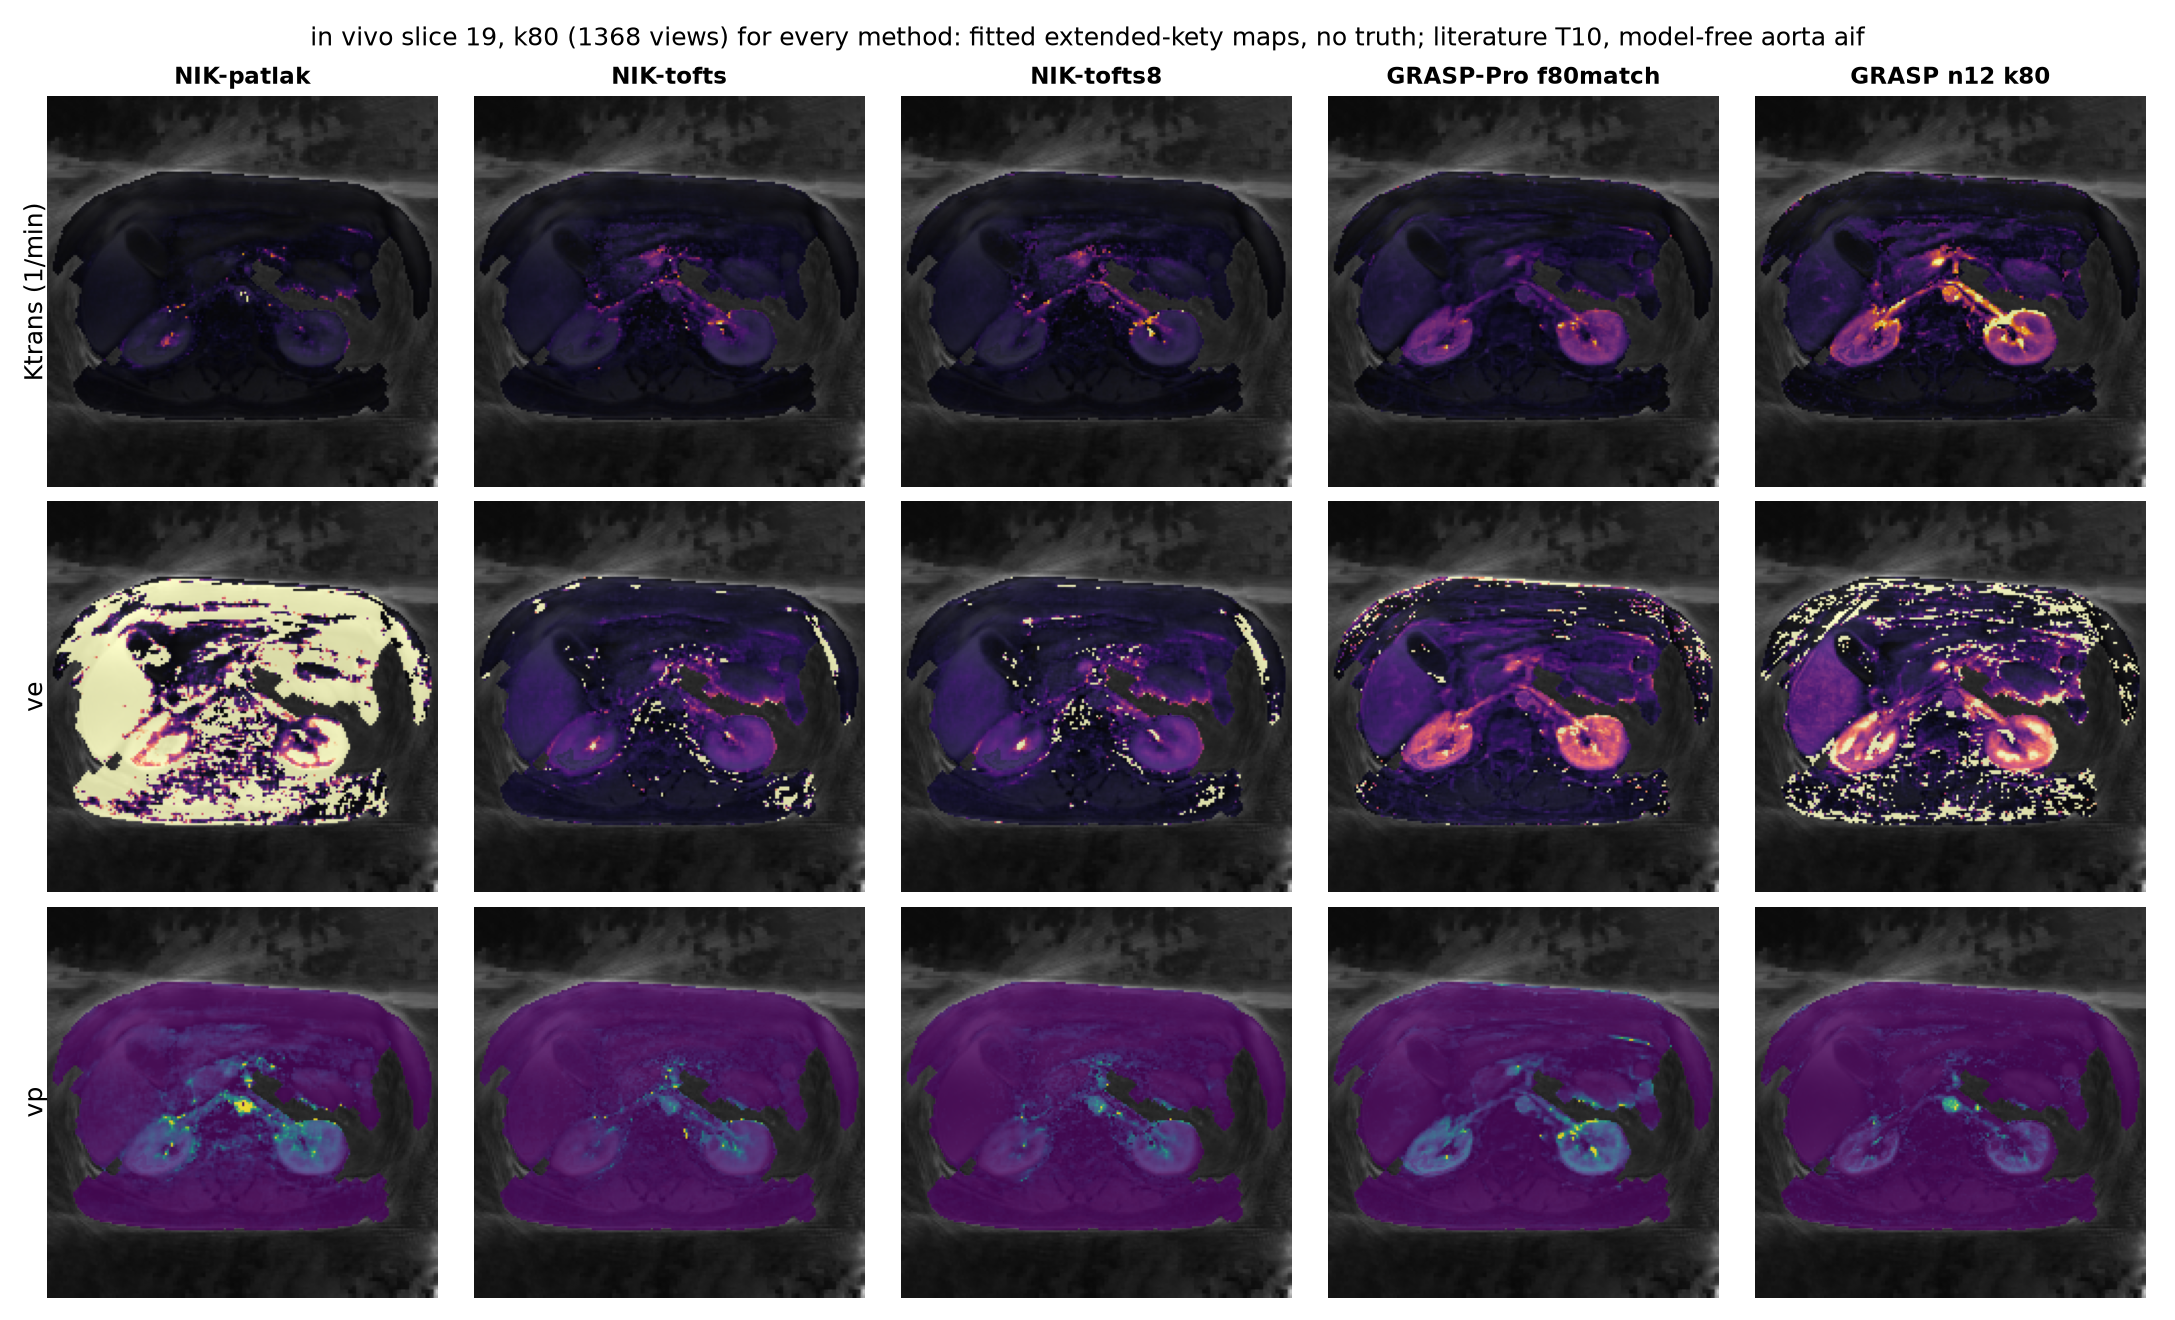
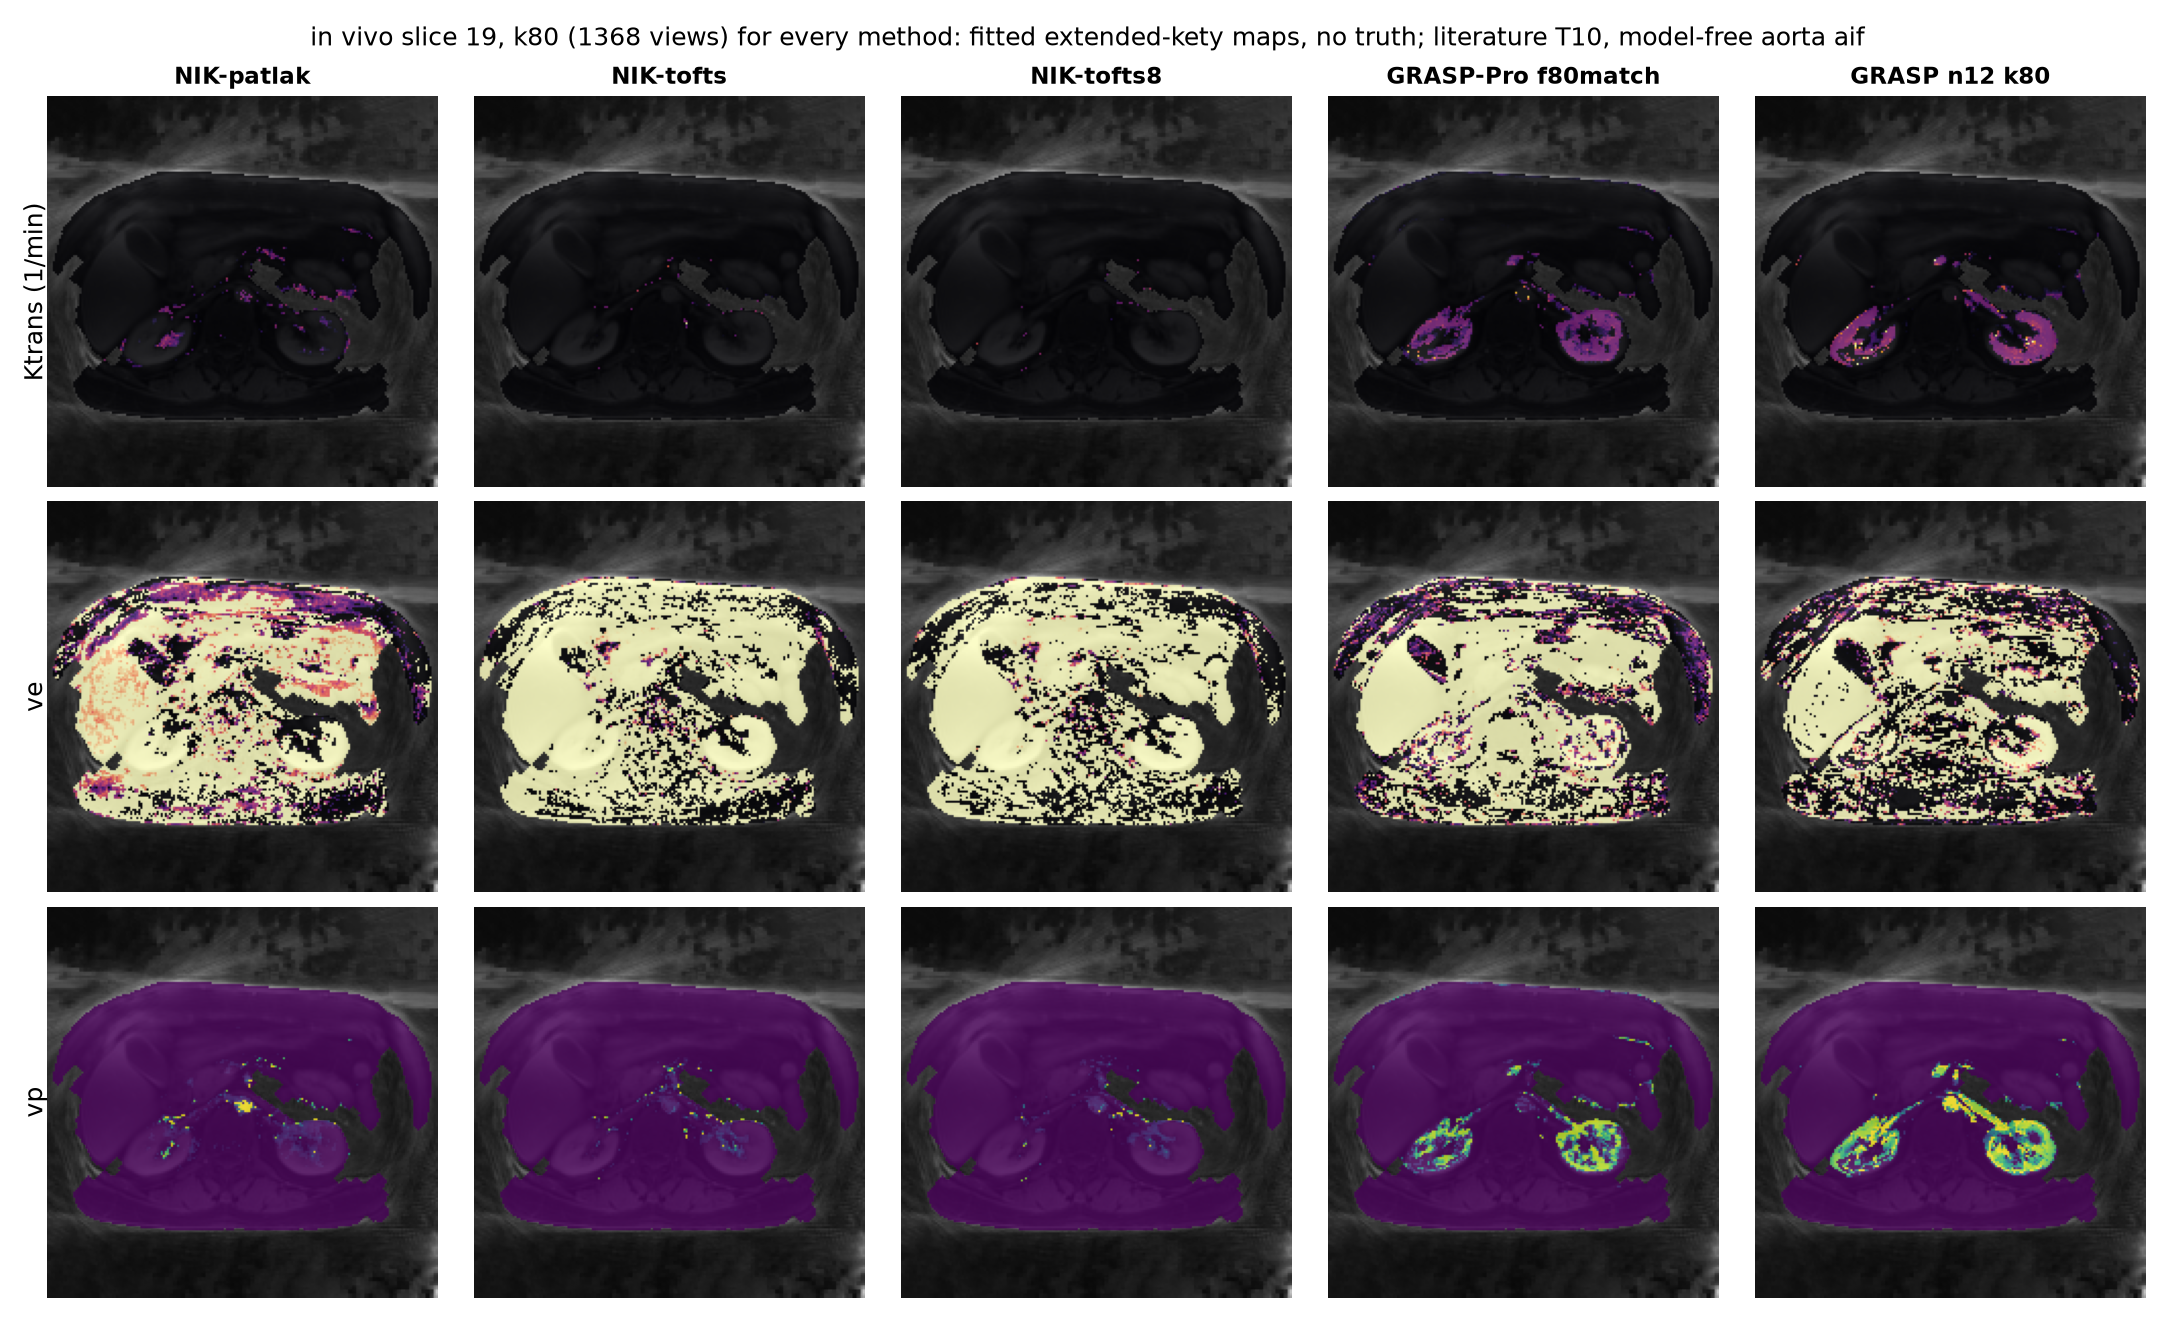
agent 2026-09-13 01:00 worker01.cluster: 6 files

diff --git a/results/realdata_nik_vs_cs_figures/pk_maps/pk_invivo_k80.md b/results/realdata_nik_vs_cs_figures/pk_maps/pk_invivo_k80.md
@@ -1,32 +1,32 @@
 # in vivo extended-kety maps at k80 (no truth; literature T10 per roi, model-free aorta aif, one aif for every method)
 
-TR 4.66 ms, flip 18, hct 0.4, r1 3.5 /mM/s, T10 {'cortex': 1142.0, 'medulla': 1545.0, 'blood': 1650.0, 'other': 1000.0} ms; DCE-NET curve_fit; ke = kep (1/min), ktrans = ke * ve (1/min); per-roi median [iqr]
+TR 2.06 ms, flip 5, hct 0.4, r1 3.5 /mM/s, T10 {'cortex': 1142.0, 'medulla': 1545.0, 'blood': 1650.0, 'other': 1000.0} ms; DCE-NET curve_fit; ke = kep (1/min), ktrans = ke * ve (1/min); per-roi median [iqr]
 
 ## slice 21
 | method | cortex ktrans | cortex ve | cortex vp | medulla ktrans | medulla ve | medulla vp |
 |---|---|---|---|---|---|---|
-| NIK-free | 0.197 [0.17, 0.22] | 0.304 [0.26, 0.35] | 0.041 [0.03, 0.05] | 0.137 [0.13, 0.15] | 0.322 [0.27, 0.38] | 0.034 [0.02, 0.04] |
-| NIK-sub16 | 0.227 [0.20, 0.24] | 0.353 [0.33, 0.39] | 0.051 [0.04, 0.06] | 0.164 [0.16, 0.17] | 0.333 [0.29, 0.38] | 0.030 [0.02, 0.04] |
-| NIK-patlak | 0.046 [0.04, 0.05] | 0.689 [0.58, 0.92] | 0.053 [0.05, 0.06] | 0.042 [0.04, 0.05] | 1.000 [0.99, 1.00] | 0.035 [0.03, 0.04] |
-| NIK-tofts | 0.089 [0.08, 0.10] | 0.166 [0.16, 0.18] | 0.012 [0.01, 0.01] | 0.058 [0.06, 0.06] | 0.152 [0.13, 0.17] | 0.010 [0.01, 0.01] |
-| NIK-tofts8 | 0.104 [0.10, 0.11] | 0.179 [0.17, 0.19] | 0.021 [0.02, 0.02] | 0.063 [0.06, 0.07] | 0.173 [0.15, 0.19] | 0.014 [0.01, 0.02] |
-| GRASP-Pro f80match | 0.138 [0.13, 0.15] | 0.357 [0.34, 0.38] | 0.027 [0.03, 0.03] | 0.131 [0.11, 0.14] | 0.352 [0.30, 0.38] | 0.026 [0.02, 0.03] |
-| GRASP n12 k80 | 0.319 [0.28, 0.34] | 0.486 [0.44, 0.51] | 0.067 [0.05, 0.08] | 0.196 [0.18, 0.21] | 0.441 [0.38, 0.50] | 0.042 [0.02, 0.05] |
+| NIK-free | 0.000 [0.00, 0.00] | 1.000 [0.02, 1.00] | 0.000 [0.00, 0.00] | 0.000 [0.00, 0.00] | 0.009 [0.01, 0.03] | 0.000 [0.00, 0.00] |
+| NIK-sub16 | 0.000 [0.00, 0.00] | 0.006 [0.01, 0.01] | 0.001 [0.00, 0.00] | 0.000 [0.00, 0.00] | 0.007 [0.01, 0.01] | 0.000 [0.00, 0.00] |
+| NIK-patlak | 0.000 [0.00, 0.00] | 1.000 [1.00, 1.00] | 0.000 [0.00, 0.00] | 0.000 [0.00, 0.00] | 1.000 [1.00, 1.00] | 0.000 [0.00, 0.00] |
+| NIK-tofts | 0.000 [0.00, 0.00] | 0.007 [0.00, 0.30] | 0.000 [0.00, 0.00] | 0.000 [0.00, 0.00] | 0.000 [0.00, 1.00] | 0.000 [0.00, 0.00] |
+| NIK-tofts8 | 0.000 [0.00, 0.00] | 0.009 [0.00, 1.00] | 0.000 [0.00, 0.00] | 0.000 [0.00, 0.00] | 1.000 [0.00, 1.00] | 0.000 [0.00, 0.00] |
+| GRASP-Pro f80match | 0.000 [0.00, 0.00] | 1.000 [1.00, 1.00] | 0.000 [0.00, 0.00] | 0.000 [0.00, 0.00] | 1.000 [1.00, 1.00] | 0.000 [0.00, 0.00] |
+| GRASP n12 k80 | 0.000 [0.00, 0.00] | 0.005 [0.00, 0.83] | 0.054 [0.00, 0.18] | 0.001 [0.00, 0.00] | 0.006 [0.00, 0.01] | 0.000 [0.00, 0.00] |
 
 ## slice 18
 | method | cortex ktrans | cortex ve | cortex vp | medulla ktrans | medulla ve | medulla vp |
 |---|---|---|---|---|---|---|
-| NIK-patlak | 0.047 [0.04, 0.05] | 0.975 [0.73, 1.00] | 0.045 [0.04, 0.05] | 0.036 [0.03, 0.04] | 1.000 [0.94, 1.00] | 0.028 [0.02, 0.03] |
-| NIK-tofts | 0.074 [0.07, 0.08] | 0.159 [0.15, 0.16] | 0.008 [0.01, 0.01] | 0.050 [0.05, 0.05] | 0.118 [0.11, 0.12] | 0.005 [0.00, 0.01] |
-| NIK-tofts8 | 0.077 [0.07, 0.09] | 0.167 [0.16, 0.17] | 0.013 [0.01, 0.02] | 0.052 [0.05, 0.06] | 0.124 [0.12, 0.13] | 0.006 [0.00, 0.01] |
-| GRASP-Pro f80match | 0.204 [0.19, 0.22] | 0.442 [0.42, 0.48] | 0.109 [0.09, 0.12] | 0.159 [0.15, 0.17] | 0.360 [0.34, 0.38] | 0.040 [0.03, 0.06] |
-| GRASP n12 k80 | 0.295 [0.27, 0.31] | 0.505 [0.47, 0.55] | 0.059 [0.03, 0.07] | 0.185 [0.17, 0.20] | 0.430 [0.39, 0.45] | 0.029 [0.02, 0.04] |
+| NIK-patlak | 0.000 [0.00, 0.00] | 1.000 [1.00, 1.00] | 0.000 [0.00, 0.00] | 0.000 [0.00, 0.00] | 1.000 [1.00, 1.00] | 0.000 [0.00, 0.00] |
+| NIK-tofts | 0.000 [0.00, 0.00] | 1.000 [1.00, 1.00] | 0.000 [0.00, 0.00] | 0.000 [0.00, 0.00] | 1.000 [1.00, 1.00] | 0.000 [0.00, 0.00] |
+| NIK-tofts8 | 0.000 [0.00, 0.00] | 1.000 [1.00, 1.00] | 0.000 [0.00, 0.00] | 0.000 [0.00, 0.00] | 1.000 [1.00, 1.00] | 0.000 [0.00, 0.00] |
+| GRASP-Pro f80match | 0.006 [0.00, 0.02] | 0.858 [0.00, 1.00] | 0.072 [0.05, 0.09] | 0.000 [0.00, 0.00] | 1.000 [1.00, 1.00] | 0.000 [0.00, 0.00] |
+| GRASP n12 k80 | 0.002 [0.00, 0.53] | 0.183 [0.00, 0.63] | 0.037 [0.00, 0.16] | 0.001 [0.00, 0.00] | 0.004 [0.00, 0.01] | 0.000 [0.00, 0.00] |
 
 ## slice 19
 | method | cortex ktrans | cortex ve | cortex vp | medulla ktrans | medulla ve | medulla vp |
 |---|---|---|---|---|---|---|
-| NIK-patlak | 0.043 [0.04, 0.05] | 0.752 [0.56, 0.92] | 0.040 [0.04, 0.04] | 0.036 [0.03, 0.04] | 0.898 [0.66, 1.00] | 0.029 [0.02, 0.03] |
-| NIK-tofts | 0.062 [0.06, 0.07] | 0.137 [0.13, 0.15] | 0.011 [0.01, 0.01] | 0.046 [0.04, 0.05] | 0.112 [0.11, 0.12] | 0.008 [0.00, 0.01] |
-| NIK-tofts8 | 0.065 [0.06, 0.07] | 0.139 [0.13, 0.15] | 0.014 [0.01, 0.02] | 0.046 [0.04, 0.05] | 0.117 [0.11, 0.12] | 0.011 [0.01, 0.01] |
-| GRASP-Pro f80match | 0.236 [0.21, 0.25] | 0.494 [0.43, 0.52] | 0.076 [0.07, 0.08] | 0.157 [0.14, 0.17] | 0.331 [0.28, 0.37] | 0.044 [0.04, 0.05] |
-| GRASP n12 k80 | 0.302 [0.28, 0.34] | 0.489 [0.45, 0.52] | 0.033 [0.02, 0.04] | 0.186 [0.17, 0.21] | 0.419 [0.38, 0.49] | 0.014 [0.01, 0.02] |
+| NIK-patlak | 0.000 [0.00, 0.00] | 1.000 [1.00, 1.00] | 0.000 [0.00, 0.00] | 0.000 [0.00, 0.00] | 1.000 [1.00, 1.00] | 0.000 [0.00, 0.00] |
+| NIK-tofts | 0.000 [0.00, 0.00] | 1.000 [1.00, 1.00] | 0.000 [0.00, 0.00] | 0.000 [0.00, 0.00] | 1.000 [1.00, 1.00] | 0.000 [0.00, 0.00] |
+| NIK-tofts8 | 0.000 [0.00, 0.00] | 1.000 [1.00, 1.00] | 0.000 [0.00, 0.00] | 0.000 [0.00, 0.00] | 1.000 [1.00, 1.00] | 0.000 [0.00, 0.00] |
+| GRASP-Pro f80match | 0.235 [0.00, 0.33] | 0.389 [0.15, 0.91] | 0.029 [0.01, 0.07] | 0.000 [0.00, 0.00] | 1.000 [1.00, 1.00] | 0.000 [0.00, 0.00] |
+| GRASP n12 k80 | 0.000 [0.00, 0.26] | 0.145 [0.00, 0.75] | 0.085 [0.01, 0.21] | 0.001 [0.00, 0.00] | 0.005 [0.00, 0.02] | 0.000 [0.00, 0.00] |

diff --git a/jobs/agent/status.md b/jobs/agent/status.md
@@ -1,20 +1,19 @@
 # helios agent
 
-updated 2026-09-13 00:27:30 on worker01.cluster, job 3284095, cycle 1
+updated 2026-09-13 01:00:04 on worker01.cluster, job 3284095, cycle 17
 
 ## active
 
 | jid | script | state |
 |---|---|---|
-| 3288267 | 021_pk_maps_invivo | 1 RUNNING None |
 
 ## done (last 20)
 
 | name | state |
 |---|---|
+| 021_pk_maps_invivo | 1 COMPLETED 01:57:46 |
 | 022_pk_maps_invivo | 1 COMPLETED 00:15:38 |
 | 013_dce_hdr_main | exit 0 |
-| 021_pk_maps_invivo | 1 RUNNING None |
 | 012_dce_hdr | exit 0 |
 | 011_dce_hdr | exit 1 |
 | 020_joblib_pk_maps | 1 COMPLETED 00:02:05 |
